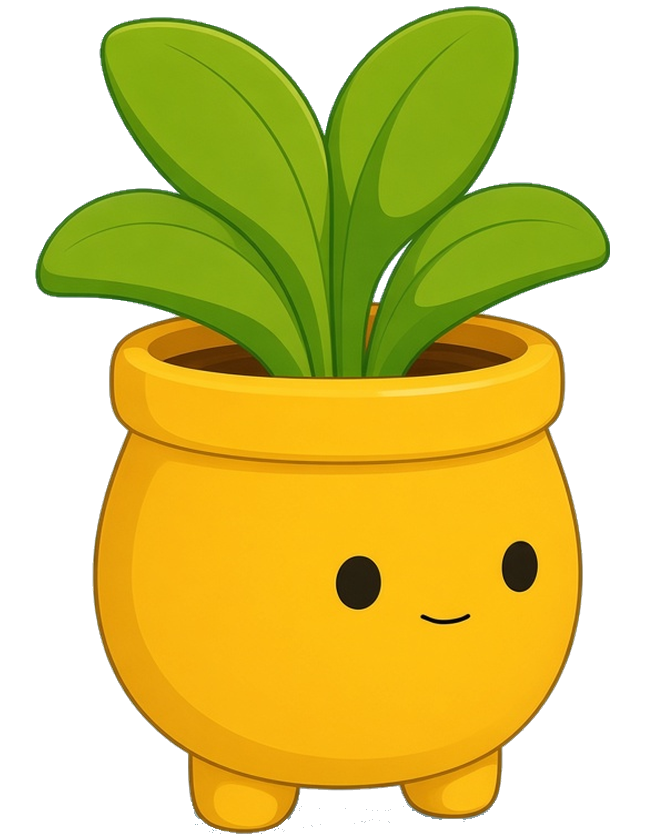
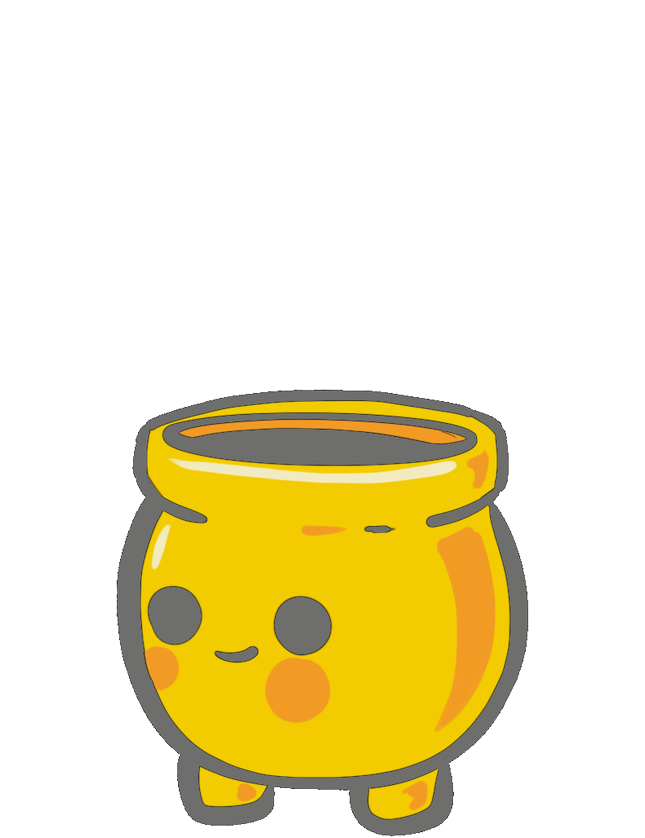
Use Paria's left-facing pot as the playable Pibo.
Her drawing has no leaf hair. Pot color still repaints the body and feet, while the outline, bead eyes, smile, and orange blush stay. Hair and hats overlay on the rim, and the sprite mirrors when he faces right.

diff --git a/src/entities/piboLook.js b/src/entities/piboLook.js
@@ -224,6 +224,9 @@ function splitLayers(source) {
         into = ld;
       } else if (inEye(x, y, w, h) && isEyePixel(r, g, b)) {
         into = ed;
+      } else if (inBlush(x, y, w, h) && isBlushPixel(r, g, b)) {
+        // Orange cheek circles stay. Body shading outside these spots recolors.
+        into = ed;
       } else if (y < smooth[x] && !isWarm(r, g, b)) {
         into = ld;
       } else {
@@ -374,7 +377,7 @@ function drawAccessory(ctx, layers, item) {
 
 function drawScarf(ctx, layers, color) {
   const { w, h, mask } = layers;
-  const y = h * 0.8;
+  const y = h * 0.86;
   const span = spanAt(mask, w, y);
   const inset = (span.right - span.left) * 0.03;
   const x = span.left + inset;
@@ -427,13 +430,13 @@ function drawGlasses(ctx, w, h, color) {
   ctx.fillStyle = color;
   ctx.lineWidth = Math.max(6, w * 0.016);
   ctx.lineJoin = "round";
-  // Small lenses on the side-facing bead eyes. The far eye sits higher.
+  // Her left-facing pot: both beads sit on the viewer's left, the outer one higher.
   const lenses = [
-    [0.554, 0.695],
-    [0.805, 0.676],
+    [0.27, 0.734],
+    [0.468, 0.746],
   ];
-  const rw = w * 0.09;
-  const rh = h * 0.062;
+  const rw = w * 0.1;
+  const rh = h * 0.072;
   const boxes = lenses.map(([cx, cy]) => ({
     x: cx * w - rw / 2,
     y: cy * h - rh / 2,
@@ -444,8 +447,8 @@ function drawGlasses(ctx, w, h, color) {
     ctx.stroke();
   }
   ctx.beginPath();
-  ctx.moveTo(boxes[0].x + rw, boxes[0].y + rh * 0.45);
-  ctx.lineTo(boxes[1].x, boxes[1].y + rh * 0.5);
+  ctx.moveTo(boxes[0].x + rw, boxes[0].y + rh * 0.5);
+  ctx.lineTo(boxes[1].x, boxes[1].y + rh * 0.48);
   ctx.stroke();
   ctx.restore();
 }
@@ -460,17 +463,35 @@ function isWarm(r, g, b) {
 
 function isEyePixel(r, g, b) {
   const max = Math.max(r, g, b);
-  // Solid black beads. No white shine on this face.
   if (max < 95) return true;
   return r < 130 && g < 90 && b < 70 && max < 150;
+}
+
+function isBlushPixel(r, g, b) {
+  return r > 180 && g > 70 && g < 200 && b < 110 && r > g + 30;
+}
+
+function inBlush(x, y, w, h) {
+  const fx = x / w;
+  const fy = y / h;
+  const spots = [
+    [0.251, 0.797, 0.04, 0.036],
+    [0.46, 0.823, 0.065, 0.05],
+  ];
+  for (const [cx, cy, rx, ry] of spots) {
+    const dx = (fx - cx) / rx;
+    const dy = (fy - cy) / ry;
+    if (dx * dx + dy * dy <= 1) return true;
+  }
+  return false;
 }
 
 function inEye(x, y, w, h) {
   const fx = x / w;
   const fy = y / h;
   const eyes = [
-    [0.554, 0.695, 0.046, 0.04],
-    [0.805, 0.676, 0.04, 0.038],
+    [0.27, 0.734, 0.05, 0.042],
+    [0.468, 0.746, 0.055, 0.044],
   ];
   for (const [cx, cy, rx, ry] of eyes) {
     const dx = (fx - cx) / rx;

diff --git a/src/entities/Pibo.js b/src/entities/Pibo.js
@@ -275,7 +275,8 @@ export class Pibo {
     }
 
     const screenRight = this.faceX * this.basis.screenRight.x + this.faceZ * this.basis.screenRight.z;
-    const flip = screenRight >= 0 ? 1 : -1;
+    // The drawn pot looks toward screen-left. Mirror it when travel faces right.
+    const flip = screenRight > 0 ? -1 : 1;
     // A hat adds clear space above the leaves. Flight keeps that same pot.
     const grow = this._lookGrow || 1;
     const wide = this._lookWide || 1;

diff --git a/ASSETS.md b/ASSETS.md
@@ -50,7 +50,7 @@ Replace one PNG and refresh. Positions stay in `src/data/layers.js`. Rebuild fro
 The library hangout background, with the raccoon removed, is `assets/painted/layers/library-hangout.png`.
 
 - **Art room** (`assets/painted/art-room.jpg`) — the room behind the cottage door. Pibo is drawn on top of it, not painted in.
-- **Pibo** (`assets/pibo/pibo.png`) — the side-facing yellow pot, 645 × 838, feet at the bottom edge. Leaf hair, bead eyes, the thin smile, and the pot live in this one file. A new pot color repaints the body and the feet, and the dark outline, eyes, and smile stay black. A hat replaces the leaves. No blush or arms. The game draws the soft shadow and bobs him when he walks or flies. The old `pibo-swim-*.png` frames are unused. Rebuild from `assets/pibo/sources/pibo-side-smile-v1.jpg` with `python3 tools/cut-style-pibo.py`.
+- **Pibo** (`assets/pibo/pibo.png`) — Paria's left-facing pot, 645 × 838, feet at the bottom edge. No leaves in this file. Bead eyes, the smile, the orange blush, and the black outline stay when the body and feet recolor. Hair and hats are separate sprites; a hat replaces whichever hair is on. `pibo-face-right.png` and `pibo-face-front.png` are the other views for later. Walk and flight still use `pibo.png`, mirrored when he faces right. The game draws the soft shadow.
 - **Hair** (`assets/pibo/hair/`) — succulent, fern, sunflower, clover, and palm. Each file is a transparent PNG of any size, with no pot, rim, or soil in it. The original big tuft is not one of these files. It is the green layer already in `pibo.png`. `tuft-icon.png` is only the picker picture for that tuft.
 - **Hats** (`assets/pibo/hats/`) — beanie, strawhat, wizard, crown, cap, and pirate. Same rules: transparent PNG, any size, no pot pixels. A hat hides whichever hair is selected.
 - Placement for each id is `anchorPx`, `offset`, and `scale` on that entry in `HAIRS` or `HATS` in `src/entities/piboLook.js`. `anchorPx` is the pixel in the file (x from the left, y from the top) that sits on the middle of the pot rim's top. `scale` 1 means one image pixel per sprite pixel. `offset` is sprite pixels, x to the right and y downward. To use a new painting, overwrite the PNG, update `anchorPx` if the crop changed, and refresh.
